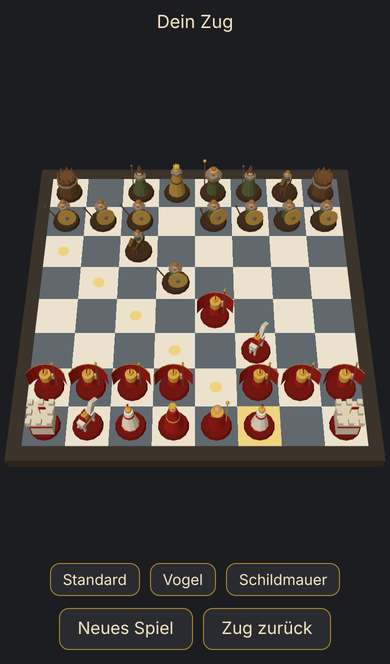
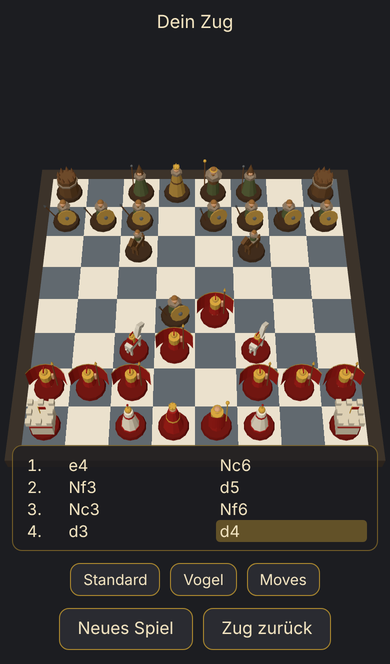
Add move list in SAN with Moves toggle; remove shield wall view

diff --git a/src/main.ts b/src/main.ts
@@ -1,8 +1,8 @@
 // Spielablauf: verbindet Regeln, Brett, Computergegner und Leiste.
 // Du spielst Rom (Weiß), der Computer die Germanen (Schwarz).
-// Die Stellungen des Spiels liegen in `history`; die letzte ist die aktuelle.
+// Das Spiel liegt in `history`: jede Stellung mit dem Zug (SAN), der zu ihr geführt hat.
 
-import { START, colorOf, fromFen, legalMoves, makeMove, status, type Move, type Position } from './rules.ts';
+import { START, colorOf, fromFen, legalMoves, makeMove, san, status, type Move, type Position } from './rules.ts';
 import { bestMove } from './ai.ts';
 import { animateMove } from './animate.ts';
 import * as board from './board.ts';
@@ -12,8 +12,9 @@ const DEPTH = 3; // Halbzüge, die der Computer vorausrechnet
 
 const statusText = document.querySelector('#status')!;
 const boardElement = document.querySelector<HTMLElement>('#board')!;
+const movesPanel = document.querySelector<HTMLElement>('#moves')!;
 
-let history: Position[] = [];
+let history: { pos: Position; san: string }[] = [];
 let selected: number | null = null; // Feld der gewählten Figur
 let busy = false; // ein Zug läuft gerade (Animation oder Computer)
 
@@ -23,16 +24,16 @@ document.querySelector('#new-game')!.addEventListener('click', newGame);
 document.querySelector('#undo')!.addEventListener('click', undo);
 document.querySelector('#view-standard')!.addEventListener('click', () => board.showView('standard'));
 document.querySelector('#view-bird')!.addEventListener('click', () => board.showView('bird'));
-document.querySelector('#view-shield-wall')!.addEventListener('click', () => board.showView('shieldWall'));
+document.querySelector('#toggle-moves')!.addEventListener('click', toggleMoves);
 newGame();
 
 function current(): Position {
-  return history[history.length - 1];
+  return history[history.length - 1].pos;
 }
 
 function newGame() {
   if (busy) return;
-  history = [fromFen(START)];
+  history = [{ pos: fromFen(START), san: '' }];
   refresh();
 }
 
@@ -72,8 +73,9 @@ async function computerTurn() {
 
 async function play(move: Move) {
   board.select(null, []);
-  await animateMove(current(), move);
-  history.push(makeMove(current(), move));
+  const pos = current();
+  await animateMove(pos, move);
+  history.push({ pos: makeMove(pos, move), san: san(pos, move) });
   refresh();
 }
 
@@ -87,6 +89,7 @@ function refresh() {
   board.select(null, []);
   board.show(current());
   showStatus();
+  showMoves();
 }
 
 function showStatus() {
@@ -98,6 +101,32 @@ function showStatus() {
     checkmate: `Schachmatt. ${winner}.`,
     stalemate: 'Patt. Unentschieden.',
   }[status(pos)];
+}
+
+// Zugliste: eine Zeile pro Zugpaar („1. e4 Nc6“), der letzte Zug hervorgehoben, ans Ende gescrollt.
+function showMoves() {
+  const written = history.slice(1).map((entry) => entry.san);
+  const last = written.length - 1;
+  const rows: HTMLElement[] = [];
+  for (let i = 0; i < written.length; i += 2) {
+    const row = document.createElement('div');
+    row.append(cell(`${i / 2 + 1}.`), cell(written[i], i === last), cell(written[i + 1] ?? '', i + 1 === last));
+    rows.push(row);
+  }
+  movesPanel.replaceChildren(...rows);
+  movesPanel.scrollTop = movesPanel.scrollHeight;
+}
+
+function cell(text: string, highlighted = false): HTMLElement {
+  const span = document.createElement('span');
+  span.textContent = text;
+  if (highlighted) span.className = 'last';
+  return span;
+}
+
+function toggleMoves() {
+  movesPanel.hidden = !movesPanel.hidden;
+  movesPanel.scrollTop = movesPanel.scrollHeight; // versteckt wirkt Scrollen nicht, darum beim Einblenden
 }
 
 // Wartet, bis der Browser einmal gezeichnet hat.

diff --git a/index.html b/index.html
@@ -24,10 +24,56 @@
         text-align: center;
         font-size: 18px;
       }
-      #board {
+      #table {
         flex: 1;
         min-height: 0;
+        display: flex;
+        position: relative; /* Bezug für die Zugliste im Hochformat */
+      }
+      #board {
+        flex: 1;
+        min-width: 0;
         touch-action: none; /* kein Scrollen oder Zoomen der Seite beim Wischen übers Brett */
+      }
+      /* Zugliste: am Rechner rechts neben dem Brett */
+      #moves {
+        width: 190px;
+        overflow-y: auto;
+        padding: 8px 10px;
+        border-left: 1px solid #3a3b42;
+        font-size: 16px;
+        font-variant-numeric: tabular-nums;
+      }
+      #moves div {
+        display: grid;
+        grid-template-columns: 2.6em 1fr 1fr;
+      }
+      #moves span {
+        padding: 1px 4px;
+      }
+      #moves .last {
+        background: rgba(168, 134, 47, 0.5);
+        border-radius: 4px;
+      }
+      #moves:empty::before {
+        content: 'Noch keine Züge';
+        opacity: 0.6;
+      }
+      /* Hochkant (iPhone): halbtransparent unten über dem Brett, verdeckt es nicht ganz.
+         Tipps gehen durch die Liste hindurch aufs Brett; sie scrollt von selbst ans Ende. */
+      @media (orientation: portrait) {
+        #moves {
+          pointer-events: none;
+          position: absolute;
+          left: 12px;
+          right: 12px;
+          bottom: 6px;
+          width: auto;
+          max-height: 22%;
+          border: 1px solid rgba(168, 134, 47, 0.6);
+          border-radius: 10px;
+          background: rgba(28, 29, 33, 0.7);
+        }
       }
       nav {
         display: flex;
@@ -55,11 +101,14 @@
   </head>
   <body>
     <p id="status"></p>
-    <div id="board"></div>
+    <main id="table">
+      <div id="board"></div>
+      <div id="moves" hidden></div>
+    </main>
     <nav id="views">
       <button id="view-standard">Standard</button>
       <button id="view-bird">Vogel</button>
-      <button id="view-shield-wall">Schildmauer</button>
+      <button id="toggle-moves">Moves</button>
     </nav>
     <nav id="actions">
       <button id="new-game">Neues Spiel</button>

diff --git a/src/board.ts b/src/board.ts
@@ -33,12 +33,11 @@ controls.addEventListener('change', render);
 // Abstand, bei dem das ganze Brett ins Bild passt. Hängt vom Bildschirm ab, siehe resize.
 let fit = 1;
 
-// Die drei Ansichten. polar: Winkel von senkrecht oben; azimuth: Drehung ums Brett, 0 = hinter Rom;
+// Die festen Ansichten. polar: Winkel von senkrecht oben; azimuth: Drehung ums Brett, 0 = hinter Rom;
 // distance: Abstand als Vielfaches von `fit`.
 const VIEWS = {
   standard: { polar: 0.56, azimuth: 0, distance: 1 }, // schräg hinter Rom
   bird: { polar: 0.001, azimuth: 0, distance: 1 }, // von oben
-  shieldWall: { polar: 1.2, azimuth: 2.0, distance: 1.1 }, // tief und seitlich, Schilde schräg von vorne
 };
 export type View = keyof typeof VIEWS;
 
@@ -106,7 +105,7 @@ export function onTap(handler: (sq: number | null) => void) {
   });
 }
 
-// Fährt die Kamera sanft in eine der drei Ansichten. Während der Fahrt ist Drehen aus.
+// Fährt die Kamera sanft in eine der festen Ansichten. Während der Fahrt ist Drehen aus.
 export async function showView(name: View) {
   if (!controls.enabled) return; // es läuft schon eine Fahrt
   const from = new THREE.Spherical().setFromVector3(camera.position);

diff --git a/README.md b/README.md
@@ -13,20 +13,21 @@ npm run dev
 
 Ohne eigenen Rechner: **https://hedaniel7.github.io/RomanChess/**. GitHub baut die Seite bei jedem Push auf `main` neu und veröffentlicht sie (`.github/workflows/pages.yml`). Einmalig nötig: im Repo unter Settings → Pages bei Source „GitHub Actions“ wählen.
 
-<img src="screenshot.png" width="300" alt="Spiel auf dem iPhone: Brett mit römischen und germanischen Figuren, Läufer gewählt">
+<img src="screenshot.png" width="300" alt="Spiel auf dem iPhone: Brett mit römischen und germanischen Figuren, Zugliste unten">
 
 - Tippe eine römische Figur an. Felder, auf die sie darf, bekommen einen Punkt, Figuren, die sie schlagen kann, einen Ring.
 - Tippe ein markiertes Feld: Die Figur gleitet hin, ein Springer springt im Bogen.
 - Dann überlegen die Germanen kurz und ziehen. Beim Schlagen stößt der Angreifer zu, das Opfer kippt um und versinkt im Brett.
 - Mit einem Finger wischen dreht die Kamera ums Brett, zwei Finger zoomen (am Rechner: ziehen und Mausrad). Ein kurzer Tipp wählt weiterhin nur Figuren aus.
-- **Standard**, **Vogel** und **Schildmauer** fahren die Kamera sanft in drei feste Ansichten: schräg hinter Rom, von oben, tief von der Seite mit den Schilden schräg von vorne.
+- **Standard** und **Vogel** fahren die Kamera sanft in zwei feste Ansichten: schräg hinter Rom und von oben.
+- **Moves** blendet die Zugliste ein und aus, in internationaler Notation (SAN): `1. e4 Nc6 2. Nf3 d5`, der letzte Zug hervorgehoben. Hochkant liegt sie halbtransparent unten über dem Brett, ein Tipp geht durch sie hindurch aufs Brett. Am Rechner steht sie rechts daneben.
 - Oben steht der Stand: dein Zug, Schach, Schachmatt oder Patt. Ganz unten: **Neues Spiel** und **Zug zurück** (nimmt deinen Zug samt Antwort zurück).
 
 ```bash
 npm test
 ```
 
-12 Tests mit Nodes eingebautem Test-Runner. Perft zählt alle Zugfolgen bis zu einer Tiefe: Die Startstellung muss 20, 400, 8902 ergeben, drei weitere Stellungen prüfen Rochade, en passant und Umwandlung. Dazu Einzeltests für Sonderregeln, Matt und Patt sowie drei Tests für den Computergegner.
+18 Tests mit Nodes eingebautem Test-Runner. Perft zählt alle Zugfolgen bis zu einer Tiefe: Die Startstellung muss 20, 400, 8902 ergeben, drei weitere Stellungen prüfen Rochade, en passant und Umwandlung. Dazu Einzeltests für Sonderregeln, Matt und Patt, sechs Tests für die Notation (Schach `+`, Matt `#`, `O-O`, `e8=Q`, `Nbd2`, `exd5`) und drei für den Computergegner.
 
 `npm run build` prüft die Typen und legt die fertige Seite in `dist/`. `--base=./` macht alle Pfade relativ, so läuft sie auch unter `/RomanChess/` auf GitHub Pages.
 
@@ -34,10 +35,10 @@ npm test
 
 ```text
 src/
-├── rules.ts          Zentrum: Schachregeln. Stellung rein, legale Züge, neue Stellung, Schach/Matt/Patt raus
-├── main.ts           Spielablauf: Tipp → Zug → Animation → Zug des Computers; Leiste und Status
+├── rules.ts          Zentrum: Schachregeln. Stellung rein, legale Züge, neue Stellung, Schach/Matt/Patt, Zug als SAN raus
+├── main.ts           Spielablauf: Tipp → Zug → Animation → Zug des Computers; Leiste, Status, Zugliste
 ├── ai.ts             Computergegner: Minimax mit Alpha-Beta, 3 Halbzüge, danach Schlagfolgen zu Ende gerechnet
-├── board.ts          three.js: Kamera (drehen, zoomen, drei Ansichten), Licht, Brett, Figuren, Markierungen, Tipp oder Wischen
+├── board.ts          three.js: Kamera (drehen, zoomen, zwei Ansichten), Licht, Brett, Figuren, Markierungen, Tipp oder Wischen
 ├── animate.ts        Gleiten, Springerbogen, Angriff, Umkippen, Versinken
 ├── pieces/
 │   ├── parts.ts      Farben, Grundformen, Sockel und die Abmachung, die jede Figur einhält
@@ -47,9 +48,9 @@ src/
 │   ├── bishop.ts     Läufer: Priester mit spitzer Kopfbedeckung
 │   ├── queen.ts      Dame: Zackenkrone
 │   └── king.ts       König: Reif und langer Stab, die höchste Figur
-├── rules.test.ts     Perft und Sonderregeln
+├── rules.test.ts     Perft, Sonderregeln, Notation
 └── ai.test.ts        Matt in einem Zug, freie Dame schlagen, keine Dame für einen Bauern geben
-index.html            Seite: Statuszeile, Brett, Leiste
+index.html            Seite: Statuszeile, Brett, Zugliste, Leiste
 package.json          npm-Befehle; Abhängigkeit: three, zum Entwickeln vite, typescript und Typen
 tsconfig.json         Einstellungen für die Typprüfung
 .github/workflows/pages.yml   bei jedem Push auf main: testen, bauen, auf GitHub Pages veröffentlichen
@@ -107,6 +108,8 @@ Ausprobiert mit dem eigenen Bauern, als `.glb` exportiert: Er lädt so im Entwic
 - **Gezeichnet wird nur bei Änderungen**, nicht 60-mal pro Sekunde. Schach steht meistens still; das schont Akku und Wärme.
 - **Tippen oder Wischen** entscheidet sich beim Loslassen: weniger als 10 Pixel Bewegung ist ein Tipp, sonst hat die Kamera gedreht. Ein zweiter Finger macht nie einen Tipp daraus.
 - **Kamera ohne Nachlauf** (OrbitControls ohne Dämpfung): Sie bewegt sich nur, solange der Finger zieht. So braucht es keine Dauerschleife, gezeichnet wird weiter nur bei Änderungen.
+- **Zugliste aus dem Spielverlauf:** Jede Stellung in `history` merkt sich den Zug, der zu ihr geführt hat. Zug zurück und Neues Spiel ändern nur `history`, die Liste wird daraus neu aufgebaut und bleibt so immer richtig.
+- **Hochkant lässt die Zugliste Tipps durch** (`pointer-events: none`), sonst wären Figuren unter ihr nicht wählbar. Von Hand scrollen geht dort nicht; sie zeigt immer die letzten Züge.
 - **Der Computer rechnet im Hauptthread**, aber erst, wenn keine Animation läuft. Gemessen auf dem Server: Median 51 ms, langsamster Zug 0,5 s in einer Partie über 120 Halbzüge.
 
 ## Offene Fragen
